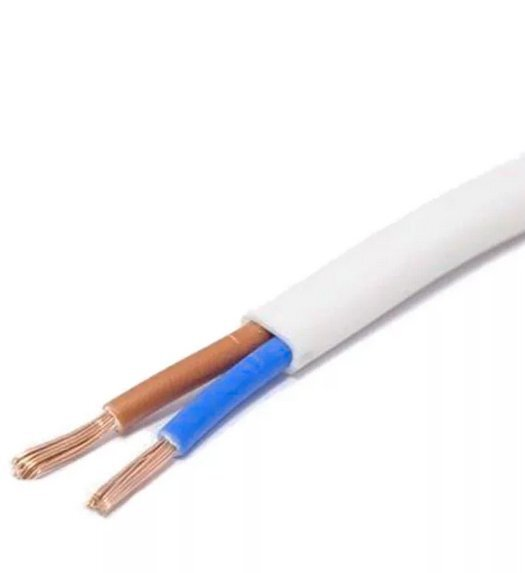
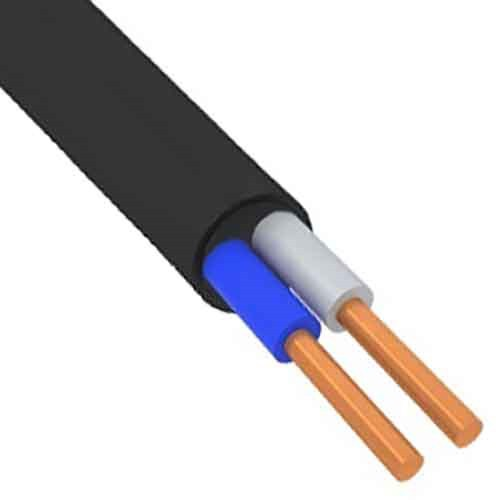
feat: Обновлен прайс

diff --git a/scripts/download-price.js b/scripts/download-price.js
@@ -5,7 +5,7 @@ const url = 'https://online.sbis.ru/oauth/service/';
 const app_client_id = '4039125485564887';
 const app_secret = 'UFEA51TUJLT6QQ8D8MDIQDEN';
[1 lines of base64/hex data omitted]
-const actual_date = '20.09.2025';
+const actual_date = '09.09.2026';
 
 const downloadPrice = async () => {
     console.info("Подключаемся к серверу СБИС")
